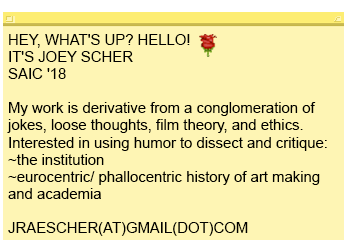
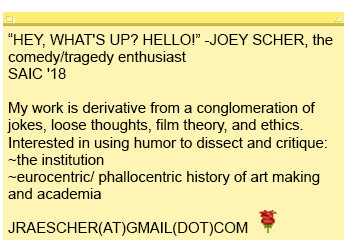
done

Changed region(s): [[0.0, 0.112, 0.9633, 0.28], [0.7147, 0.84, 0.7768, 0.924]]

diff --git a/index.html b/index.html
@@ -76,14 +76,14 @@ a:active {
 </head>
 
 <head>   
-<META NAME="description" CONTENT="Joey Scher is a Los_t Angeleno/artist/videomaker/academic currently studying in Chicago at SAIC.  Her work is derivative from a conglomeration of jokes, loose thoughts, film theory, and ethics. She is interested in using humor to dissect and critique the institution as well as the phallocentric/Eurocentric history of art making and academia.">
+<META NAME="description" CONTENT="Joey Scher is a Los_t AngelenO/artist/academic/traumedian currently studying in Chicago at SAIC. Her work is derivative from a conglomeration of jokes, loose thoughts, film theory, and ethics. She is interested in using humor to dissect and critique the institution as well as the phallocentric/Eurocentric history of art making and academia.">
 </head>
 
 <title>"Joey Scher Shares"</title>
 <body>
 
 <center>
-<h1><span class="highlight">JOEY SCHER SHARES  &nbsp:'-) :'-) :'-) :'-) :'-) :'-) :'-) :'-) :'-) :'-) :'-) :'-) :'-) </span></h1>
+<h1><span class="highlight">JOEY SCHER SHARES ! &nbsp:~) :^) :'-) :~) :^) :'-) :~) :^) :'-) :~) :^) :'-) :~)</span></h1>
 <h1 class="highlight"></h1>
  
 </center>
@@ -92,7 +92,7 @@ a:active {
 
 <span class="highlight"><a href="https://docs.google.com/document/d/1fsR5AueqQVNLmnIDpc2RpuBzw5--JWjOKDB8RKi6qSk/edit?usp=sharing">cv</a></span>
 
-<font color= "red"><font size= 1px><marquee behavior="scroll"direction="left" scrollamount="6">JOEY SCHER/&nbspJOEY SHARES/&nbspJOWEESHARE/&nbspTRADERJOE_Y/&nbspYOUTUBE&nbspSENSATION/&nbspACADEMIC/&nbspTEACHER'S&nbspPET/&nbspJOKESTER/&nbsp&nbspDOG&nbspLOVER/&nbspARTIST</marquee></font></font>
+<font color= "red"><font size= 1px><marquee behavior="scroll"direction="left" scrollamount="6">JOEY SCHER/&nbspJOEY SHARES/&nbspJOWEESHARE/&nbspTRADERJOE_Y/&nbspJODY CHAIR/&nbspPHOSHOJO/&nbspYOUTUBE&nbspSENSATION/&nbspTRAUMEDIAN/&nbspACADEMIC/&nbspTEACHER'S&nbspPET/&nbspJOKESTER/&nbsp&nbspDOG&nbspLOVER/&nbspARTIST</marquee></font></font>
 <div id="toolbar">
     <center>
    
